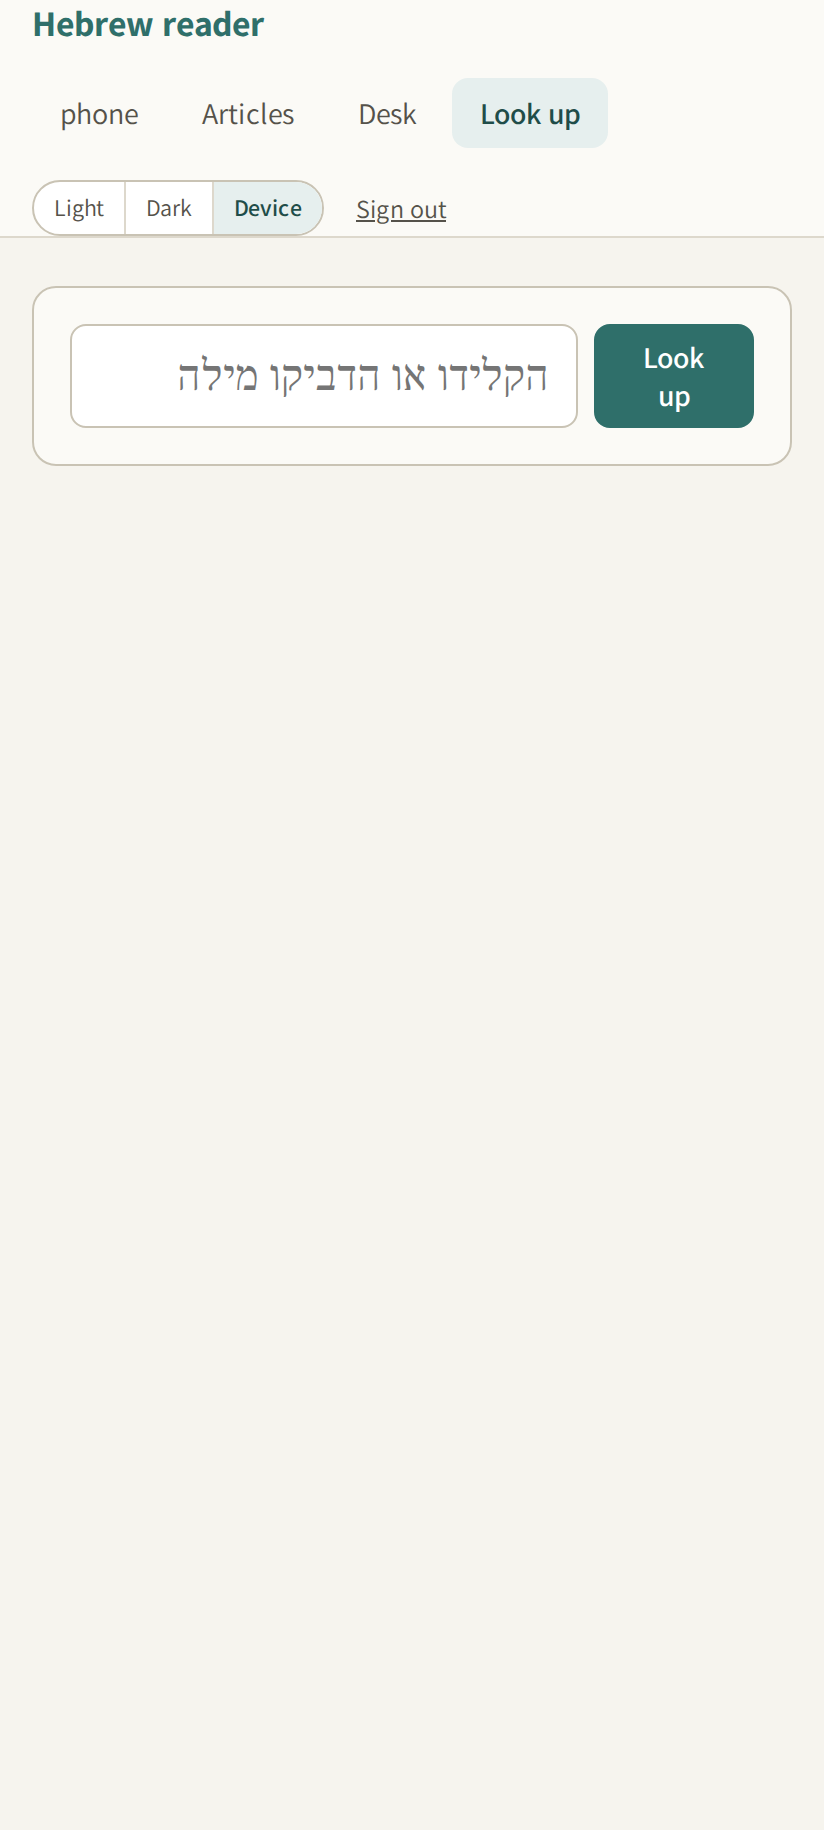
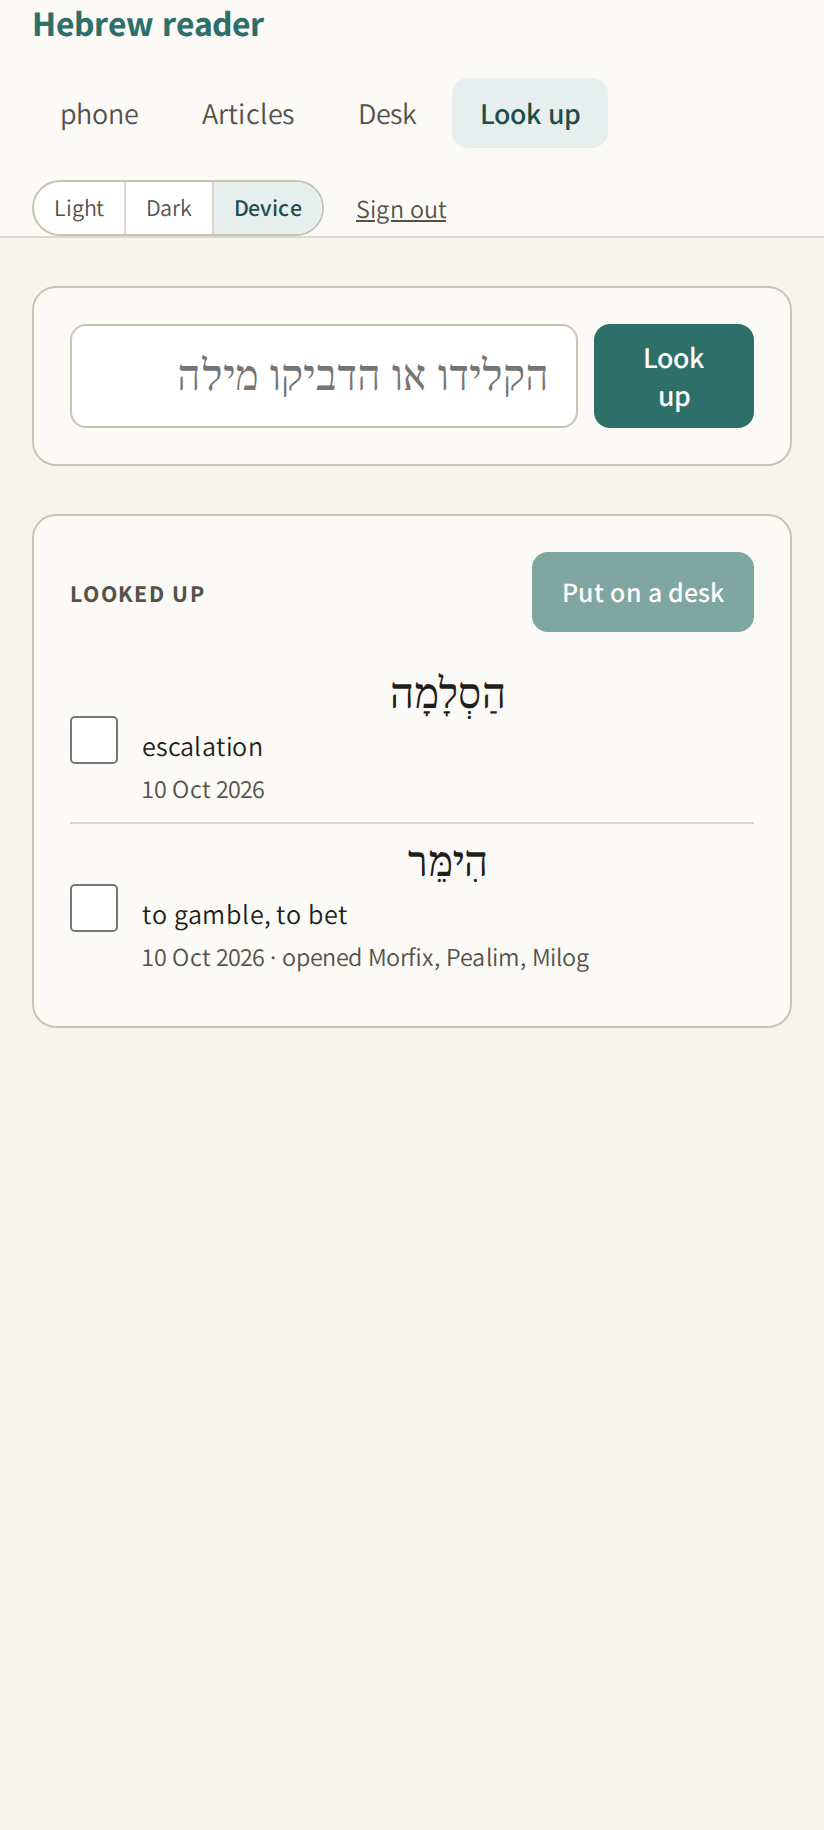
Step 5: the Looked up list (GET /lookups) and Put on a desk, unplaced on the current desk

diff --git a/public/lookup.js b/public/lookup.js
@@ -136,4 +136,89 @@ async function search(ev) {
 
 $('#search').addEventListener('submit', search);
 
+// --- "Looked up": every word looked up here, newest first ------------------------
+// 200 at a time, "Show more" for the next 200, so every word stays reachable.
+
+const list = $('#looked-list');
+const ticked = new Set();
+let next = null;
+
+function row(item) {
+  const li = document.createElement('li');
+  li.dataset.key = item.key;
+  const box = document.createElement('input');
+  box.type = 'checkbox';
+  box.checked = ticked.has(item.key);
+  box.setAttribute('aria-label', `Tick ${item.word}`);
+  box.addEventListener('change', () => { if (box.checked) ticked.add(item.key); else ticked.delete(item.key); drawPut(); });
+  const word = document.createElement('button');
+  word.type = 'button'; word.className = 'linklike looked-word';
+  const he = document.createElement('span'); he.className = 'he'; he.dir = 'rtl'; he.lang = 'he'; he.textContent = item.headword;
+  word.append(he);
+  word.title = `Look up ${item.word} again`;
+  // the word looked up again, as typed in the box
+  word.addEventListener('click', () => { $('#word').value = item.surface || item.word; search(); window.scrollTo({ top: 0, behavior: 'smooth' }); });
+  const gloss = document.createElement('span'); gloss.className = 'gloss'; gloss.textContent = item.gloss;
+  const meta = document.createElement('span'); meta.className = 'meta';
+  meta.textContent = item.day + (item.opened.length ? ` · opened ${item.opened.map((o) => o.label).join(', ')}` : '');
+  li.append(box, word, gloss, meta);
+  return li;
+}
+
+async function loadList(more) {
+  try {
+    const got = await api('GET', `/lookups?limit=200${more && next ? `&before=${encodeURIComponent(next)}` : ''}`);
+    if (!more) list.innerHTML = '';
+    for (const item of got.items) list.append(row(item));
+    next = got.next;
+    $('#more').hidden = !got.more;
+    $('#looked-empty').classList.toggle('hidden', list.children.length > 0);
+  } catch (e) {
+    $('#put-msg').className = 'msg error'; $('#put-msg').textContent = `The list could not be read: ${e.message}`;
+  }
+}
+
+function drawPut() {
+  $('#put').disabled = ticked.size === 0;
+  $('#put').textContent = ticked.size ? `Put on a desk (${ticked.size})` : 'Put on a desk';
+}
+
+// The ticked words onto the current desk, not yet placed — as a line caught
+// on the phone lands (POST /desks/<id>/cards with unplaced). A word already
+// on that desk is left where it is, and counted.
+async function putOnDesk() {
+  const msg = $('#put-msg');
+  msg.className = 'msg'; msg.textContent = 'putting them on the desk…';
+  $('#put').disabled = true;
+  let put = 0, already = 0;
+  const failedWords = [];
+  try {
+    const desk = (await api('GET', '/desks/current')).desk;
+    for (const key of [...ticked]) {
+      try {
+        const out = await api('POST', `/desks/${desk.id}/cards`, { card: key, unplaced: true });
+        if (out.already) already++; else put++;
+        ticked.delete(key);
+      } catch (e) { failedWords.push(e.message); }
+    }
+    msg.textContent = '';
+    if (put || !already) {
+      msg.append(document.createTextNode(`${put} card${put === 1 ? '' : 's'} put on tonight's desk, unplaced — `));
+      const a = document.createElement('a'); a.href = '/desk'; a.textContent = 'place them at the desk'; msg.append(a);
+    }
+    if (already) msg.append(document.createTextNode(`${put || !already ? ' · ' : ''}${already} already there`));
+    if (!put && already) { msg.append(document.createTextNode(' — ')); const a = document.createElement('a'); a.href = '/desk'; a.textContent = 'open the desk'; msg.append(a); }
+    if (failedWords.length) { msg.className = 'msg error'; msg.append(document.createTextNode(` · not put: ${failedWords.join('; ')}`)); }
+    for (const b of list.querySelectorAll('input[type=checkbox]')) b.checked = ticked.has(b.closest('li').dataset.key);
+  } catch (e) {
+    msg.className = 'msg error'; msg.textContent = `Not put on the desk: ${e.message}`;
+  }
+  drawPut();
+}
+
+$('#put').addEventListener('click', putOnDesk);
+$('#more').addEventListener('click', () => loadList(true));
+document.addEventListener('looked-up', () => loadList(false));
+loadList(false);
+
 window.Lookup = { api, get current() { return current; } };

diff --git a/lib/lookup-page.js b/lib/lookup-page.js
@@ -85,4 +85,33 @@ async function search({ surface }) {
   return { ...answer, key, card_id: row.id, sentence: at.sentence, saved, layer, lookups, references: desk.full(key).references, found_by: at.by };
 }
 
-module.exports = { search, saveStatus, findCard };
+// GET /lookups?limit=200&before=<time>: the "Looked up" list — every card
+// with a search recorded from the Look up page, newest search first, read
+// from the lookup layers and the cards (no table of its own). Each with its
+// key, headword, gloss, the day, and the tabs opened on it from the page.
+// `next` is the `before` for the next page, null at the end.
+const LIST_MAX = 200;
+const refs = require('./references');
+function list({ limit, before } = {}) {
+  const n = limit === undefined || limit === null || limit === '' ? LIST_MAX : Number(limit);
+  if (!Number.isInteger(n) || n < 1 || n > LIST_MAX) throw new ReaderError(400, `limit is a whole number from 1 to ${LIST_MAX}; got ${JSON.stringify(limit)}.`);
+  if (before && Number.isNaN(Date.parse(before))) throw new ReaderError(400, `before is a time (ISO 8601); got ${JSON.stringify(before)}.`);
+  const rows = db.pageLookups({ limit: n + 1, before: before || null });
+  const items = [];
+  for (const r of rows.slice(0, n)) {
+    let c;
+    try { c = desk.content(r.card); } catch (e) { if (e.status === 404) continue; throw e; }
+    const opened = new Set(db.tabLookupsOf(r.card).map((x) => x.reference));
+    const item = { key: r.card, kind: c.kind, at: r.last, day: desk.day(r.last), opened: refs.REFERENCES.filter((x) => opened.has(x.id)).map((x) => ({ id: x.id, label: x.label })) };
+    if (c.kind === 'word') {
+      const k = c.card;
+      const word = k.lemma || k.surface;
+      Object.assign(item, { word, headword: (k.pointed && (k.lemma ? k.pointed.lemma : k.pointed.surface)) || word, surface: k.surface, gloss: k.meaning_en || '', status: c.spot ? c.spot.status : null });
+    } else Object.assign(item, { word: desk.label(c), headword: desk.label(c), gloss: '' });
+    items.push(item);
+  }
+  const more = rows.length > n;
+  return { items, more, next: more ? rows[n - 1].last : null, state: items.length ? 'ok' : 'no data' };
+}
+
+module.exports = { search, saveStatus, findCard, list, LIST_MAX };

diff --git a/lib/db.js b/lib/db.js
@@ -805,6 +805,25 @@ function addLookup({ reference, term, origin = 'desk' }) {
   return getLookup(r.lastInsertRowid);
 }
 
+// The cards looked up on the Look up page (a lookup layer with reference
+// 'page' and origin 'lookup'), newest search first, `limit` at a time, each
+// searched last before `before` (an ISO time) when given: [{ card, last }].
+function pageLookups({ limit, before }) {
+  return db.prepare(`SELECT k.parent AS card, MAX(l.at) AS last FROM lookups l
+                     JOIN card_links k ON k.child = 'lookup:' || l.id AND k.kind = 'layer'
+                     WHERE l.reference = 'page' AND l.origin = 'lookup'
+                     GROUP BY k.parent ${before ? 'HAVING MAX(l.at) < ?' : ''}
+                     ORDER BY last DESC, k.parent DESC LIMIT ?`).all(...(before ? [before, limit] : [limit]));
+}
+
+// A card's lookups made from the Look up page's tabs: the references opened.
+function tabLookupsOf(card) {
+  return db.prepare(`SELECT l.reference, MAX(l.at) AS last FROM lookups l
+                     JOIN card_links k ON k.child = 'lookup:' || l.id AND k.kind = 'layer'
+                     WHERE k.parent = ? AND l.origin = 'lookup' AND l.reference != 'page'
+                     GROUP BY l.reference`).all(card);
+}
+
 // The newest word card of a spot (any sentence), or null.
 function newestCardOfSpot(spotId) {
   const row = db.prepare('SELECT * FROM cards WHERE spot_id = ? ORDER BY id DESC LIMIT 1').get(spotId);
@@ -951,7 +970,7 @@ module.exports = {
   childrenOf, parentsOf, moveLayer, grownParents, touchesOfSpot, surfacesOfSpot,
   addInk, getInk, addStroke, removeLastStroke, removeInk, setDanLink, getDanLink, danLinksOf, allDanLinks,
   addSheet, getSheet, sheetsOfDesk, sheetsHolding, setNoteLink, getReferencePage, putReferencePage,
-  getCardById, newestCardFor, newestCardOfSpot, wordCardsForFind, setCardSentence,
+  getCardById, newestCardFor, newestCardOfSpot, pageLookups, tabLookupsOf, wordCardsForFind, setCardSentence,
   open, STATUSES, THIN_CHARS, ReaderError, stepDone, markStep,
   addArticle, getArticle, listArticles, deleteArticle, articleGuide, setArticleGuide, lastFoundArticle, articleWithUrl,
   startHunt, finishHunt, lastHunt,

diff --git a/public/app.css b/public/app.css
@@ -609,3 +609,21 @@ body.linking .dcard { cursor: pointer; }
   .lookup-tabs > .btn.ref { width: 100%; text-align: start; height: 48px; font-size: 16px; }
   .lookup-search #word { font-size: 22px; }
 }
+.lookup-list .panel-head .btn.small { align-self: auto; }
+.lookup-list ol.looked { list-style: none; margin: 0; padding: 0; display: flex; flex-direction: column; }
+.lookup-list ol.looked li { display: grid; grid-template-columns: auto auto 1fr auto; align-items: baseline; gap: 4px 12px; padding: 8px 0; border-top: 1px solid var(--line); }
+.lookup-list ol.looked li:first-child { border-top: 0; }
+.lookup-list input[type=checkbox] { width: 20px; height: 20px; margin: 0; align-self: center; accent-color: var(--accent); }
+.lookup-list .looked-word { color: var(--text); text-decoration: none; }
+.lookup-list .looked-word:hover { color: var(--accent); text-decoration: underline; }
+.lookup-list .looked-word .he { font-family: var(--pointed); font-size: 20px; }
+.lookup-list .gloss { font-size: 14px; }
+.lookup-list .meta { font-size: 13px; color: var(--muted); text-align: right; }
+.lookup-list #more { align-self: flex-start; }
+.lookup-list .msg a { color: var(--accent); font-weight: 600; }
+.lookup-list .empty { margin: 0; }
+@media (max-width: 699px) {
+  .lookup-list ol.looked li { grid-template-columns: auto 1fr; }
+  .lookup-list .gloss, .lookup-list .meta { grid-column: 2; text-align: start; }
+  .lookup-list input[type=checkbox] { width: 24px; height: 24px; grid-row: span 3; }
+}

diff --git a/server.js b/server.js
@@ -406,6 +406,8 @@ route('POST', new RegExp(`^/card/${CARD}/cut$`), async (req, res, { key }) => {
 // --- a reference shown inside the reader (hebrew-lookup-one) ------------------
 // ?term=<word> -> { mode: 'frame', url } | { mode: 'copy', html, fetched_at, url }
 // | { mode: 'failed', url, reason }. A copy is fetched only here, on Dan's tap.
+// The Look up page's "Looked up" list: ?limit=200&before=<time> -> { items, more, next }
+route('GET', /^\/lookups$/, (req, res, g, url) => sendJson(res, 200, lookupPage.list({ limit: url.searchParams.get('limit'), before: url.searchParams.get('before') })));
 route('GET', /^\/reference\/(?<id>[a-z]+)$/, async (req, res, { id }, url) => sendJson(res, 200, await referencePages.pane(id, url.searchParams.get('term'))));
 
 const GUIDE_TEMPLATE =fs.readFileSync(path.join(PUBLIC, 'guide.html'), 'utf8');

diff --git a/public/lookup.html b/public/lookup.html
@@ -58,6 +58,17 @@
     <div class="ref-pane hidden" id="pane"></div>
   </section>
 
+  <section class="panel lookup-list" id="looked">
+    <div class="panel-head">
+      <h2>Looked up</h2>
+      <button class="btn small primary" id="put" type="button" disabled>Put on a desk</button>
+    </div>
+    <p class="msg" id="put-msg" role="status"></p>
+    <ol class="looked" id="looked-list"></ol>
+    <p class="empty" id="looked-empty">The words you look up here will be listed here, newest first.</p>
+    <button class="btn small" id="more" type="button" hidden>Show more</button>
+  </section>
+
 </main>
 <script src="/card-ui.js"></script>
 <script src="/reference-ui.js"></script>
